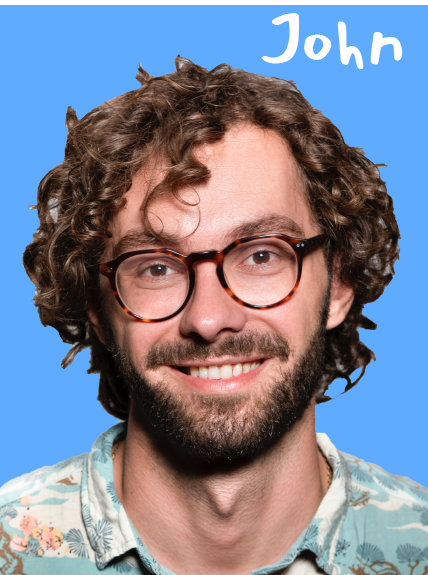
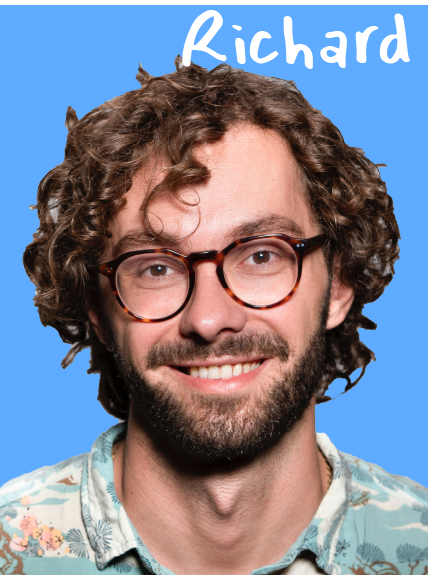
Updated Website

Changed region(s): [[0.4252, 0.0, 0.972, 0.1183]]

diff --git a/RockyRochester/index.html b/RockyRochester/index.html
@@ -63,7 +63,7 @@
     <img src="img/BandMan2.png" alt="Eleanor from The Good Place" />
   </div>
   <div>
-    <img src="img/BandWoman2.png" alt="Chidi from The Good Place" />
+    <img src="img/BandMan3.png" alt="Chidi from The Good Place" />
   </div>
   <div>
     <img src="img/BandMan1.png" alt="Jason from The Good Place" />
@@ -80,14 +80,14 @@
     <div class="row no-gutters">
       <div class="col-md-8">
         <div class="card-body">
-          <h5 class="card-title">Erin</h5>
-          <p class="card-text">Erin is the lead singer of Rocky Rochester. She grew up singing constantly and went to college to major in music. After finishing school she joined the Rocky Rochesters and would continue to live her dream.</p>
-          <h5 class="card-title">John</h5>
-          <p class="card-text">John is the guitar player in the Rocky Rochester. He grew up learning guitar from his father who would constantly teach him new songs. After high school John got married and had two kids Lucy and Anna. He loved to write songs and play guitar for them and eventually those songs he originally wrote for them turned into the formation of a band.</p>
-          <h5>Jen</h5>
-          <p>Jen is a background singer and steps up as lead for a few songs that she wrote. Jen met John when he was about to have his second child and listened to his songs. She then encouraged him to play guitar and make a band with her and few other people she knew, Erin and Mark, so that they could touch the hearts of hundreds of kids.</p>
-          <h5>Mark</h5>
-          <p>Mark is the drummist of the Rocky Rochester. He met Jen in music class as they were both going to college together and Jen told Mark about starting a band and convinced him to join. From that day forward it was the best decision Mark says that he has ever made.</p>
+          <h5 class="card-title">Shelley</h5>
+          <p class="card-text">Shelley is the lead singer of Rocky Rochester. She grew up singing constantly and went to college to major in music. After finishing school she joined the Rocky Rochesters and would continue to live her dream.</p>
+          <h5 class="card-title">Richard</h5>
+          <p class="card-text">Richard is the guitar player in the Rocky Rochester. He grew up learning guitar from his father who would constantly teach him new songs. After high school Richard got married and had two kids Lucy and Anna. He loved to write songs and play guitar for them and eventually those songs he originally wrote for them turned into the formation of a band.</p>
+          <h5>Benjamin</h5>
+          <p>Benjamin the bass player in the band. Benjamin met Richard when he was about to have his second child and listened to his songs. He then encouraged him to play guitar and make a band with him and few other people he knew, Shelley and Lewis, so that they could touch the hearts of hundreds of kids.</p>
+          <h5>Lewis</h5>
+          <p>Lewis is the drummist of the Rocky Rochester. He met Benjamin in music class as they were both going to college together and Benjamin told Lewis about starting a band and convinced him to join. From that day forward it was the best decision Lewis says that he has ever made.</p>
         </div>
       </div>
     </div>
@@ -112,7 +112,7 @@
           <h5 class="card-title">Rocky Rochester</h5>
           <p class="card-text">Rocky The Raccoon is the mascot for Rocky Rochester and makes an appearances at every concert </p>
           <h5 class="card-title">History</h5>
-          <p class="card-text">Rocky The Raccoon began as the Rocky Rochester's mascot when most of the band met in college. They would stay up late and go out on car rides. Once they started thinking about creating a band John the guitarist spotted a raccoon outside Nick Tahou Hots that the four members always ate at. He instantly created a children's song based on that raccoon and since it described their band so much from their nocturnal behavior and eating garbage plates they thought it would be the best mascot that represented them as a band and something fun to remind them of their days together as students. </p>
+          <p class="card-text">Rocky The Raccoon began as the Rocky Rochester's mascot when most of the band met in college. They would stay up late and go out on car rides. Once they started thinking about creating a band Richard the guitarist spotted a raccoon outside Nick Tahou Hots that the four members always ate at. He instantly created a children's song based on that raccoon and since it described their band so much from their nocturnal behavior and eating garbage plates they thought it would be the best mascot that represented them as a band and something fun to remind them of their days together as students. </p>
           <h5 class="card-title">Events</h5>
           <p class="card-text">Rocky The Raccoon will be present at every concert event. Please visit the events page to learn more about when concerts take place.</p>
         </div>
@@ -123,16 +123,16 @@
 
 <div class="images-leaning">
   <div>
-    <img src="img/BandMan2.png" alt="Eleanor from The Good Place" />
+    <img src="img/BandMan2.png" alt="Lewis" />
   </div>
   <div>
-    <img src="img/BandWoman2.png" alt="Chidi from The Good Place" />
+    <img src="img/BandMan3.png" alt="Benjamin" />
   </div>
   <div>
-    <img src="img/BandMan1.png" alt="Jason from The Good Place" />
+    <img src="img/BandMan1.png" alt="Richard" />
   </div>
   <div>
-    <img src="img/BandWoman1.png" alt="Tahani from The Good Place" />
+    <img src="img/BandWoman1.png" alt="Shelly" />
   </div>
 </div>
 

diff --git a/RockyRochester/gallery.html b/RockyRochester/gallery.html
@@ -67,35 +67,27 @@
       <img src="img/img5.jpg" style="width:100%">
       <img src="img/img4.jpg" style="width:100%">
       <img src="img/img3.jpg" style="width:100%">
-      <img src="img/img2.jpg" style="width:100%">
-      <img src="img/img1.jpg" style="width:100%">
     </div>
     <div class="column">
-      <img src="img/img7.jpg" style="width:100%">
-      <img src="img/img6.jpg" style="width:100%">
-      <img src="img/img5.jpg" style="width:100%">
-      <img src="img/img4.jpg" style="width:100%">
-      <img src="img/img3.jpg" style="width:100%">
-      <img src="img/img2.jpg" style="width:100%">
       <img src="img/img1.jpg" style="width:100%">
+      <img src="img/img2.jpg" style="width:100%">
+      <img src="img/image1.jpg" style="width:100%">
+      <img src="img/image2.jpg" style="width:100%">
+      <img src="img/image3.jpg" style="width:100%">
     </div>
     <div class="column">
-      <img src="img/img7.jpg" style="width:100%">
-      <img src="img/img6.jpg" style="width:100%">
-      <img src="img/img5.jpg" style="width:100%">
-      <img src="img/img4.jpg" style="width:100%">
-      <img src="img/img3.jpg" style="width:100%">
-      <img src="img/img2.jpg" style="width:100%">
-      <img src="img/img1.jpg" style="width:100%">
+      <img src="img/image4.jpg" style="width:100%">
+      <img src="img/image5.jpg" style="width:100%">
+      <img src="img/image6.jpg" style="width:100%">
+      <img src="img/image7.jpg" style="width:100%">
+      <img src="img/image8.jpg" style="width:100%">
     </div>
     <div class="column">
-      <img src="img/img7.jpg" style="width:100%">
-      <img src="img/img6.jpg" style="width:100%">
-      <img src="img/img5.jpg" style="width:100%">
-      <img src="img/img4.jpg" style="width:100%">
-      <img src="img/img3.jpg" style="width:100%">
-      <img src="img/img2.jpg" style="width:100%">
-      <img src="img/img1.jpg" style="width:100%">
+      <img src="img/image9.jpg" style="width:100%">
+      <img src="img/image10.jpg" style="width:100%">
+      <img src="img/image11.jpg" style="width:100%">
+      <img src="img/image12.jpg" style="width:100%">
+      <img src="img/image13.jpg" style="width:100%">
     </div>
   </div>
 </div>

diff --git a/RockyRochester/events.html b/RockyRochester/events.html
@@ -57,8 +57,40 @@
   </div>
 </div>
 
-<div class = "container">
-  <iframe src="https://calendar.google.com/calendar/embed?src=08pfstebpelv9ul7pt7dqfi4ps%40group.calendar.google.com&ctz=America%2FLos_Angeles" style="border: 0" width="1100" height="900" frameborder="0" scrolling="no"></iframe>
+<div class="container">
+  <div class = "event1">
+    <div class = "eventImg">
+      <img src="img/img7.jpg" alt="Nature" style="width:50%;">
+    </div>
+    <div class="text-block">
+      <div class="card" style="width: 10rem;">
+        <div class="card-body">
+          <h5 class="card-title">Opening Ceremony - Roc Film Studios Film Festival</h5>
+          <h6 class="card-subtitle mb-2 text-muted">80 Culver Rd, Rochester, NY 14610</h6>
+          <p class="card-text">9/1/20 6:30 PM</p>
+          <a href="#" class="card-link">Rochester Film Studios</a> <!-- This can be taken out if there is no link associated with the event. -->
+        </div>
+      </div>
+    </div>
+  </div>
+</div>
+
+<div class="container">
+  <div class = "event2">
+    <div class = "eventImg">
+      <img src="img/img5.jpg" alt="Nature" style="width:50%;">
+    </div>
+    <div class="text-block">
+      <div class="card" style="width: 10rem;">
+        <div class="card-body">
+          <h5 class="card-title">Event</h5>
+          <h6 class="card-subtitle mb-2 text-muted">address</h6>
+          <p class="card-text">date and time</p>
+          <a href="#" class="card-link">link to where the event might take place</a> <!-- This can be taken out if there is no link associated with the event. -->
+        </div>
+      </div>
+    </div>
+  </div>
 </div>
 
 <!-- Footer -->

diff --git a/RockyRochester/css/home.css b/RockyRochester/css/home.css
@@ -31,6 +31,28 @@ body {
   font-family: 'Oswald', sans-serif !important;
 }
 
+.text-block {
+  position: absolute;
+  bottom: 30px;
+  right: 400px;
+  background-color: transparent;
+  padding-left: 20px;
+  padding-right: 20px;
+}
+
+.eventImg {
+  text-align: center;
+  margin: 20px;
+}
+
+.event1 {
+  margin: 5px;
+}
+
+.event2 {
+  margin: 5px;
+}
+
 footer{
   /*CHANGED WITH VARIABLE TO SUIT THEME*/
   background-color: var(--main-hue);
